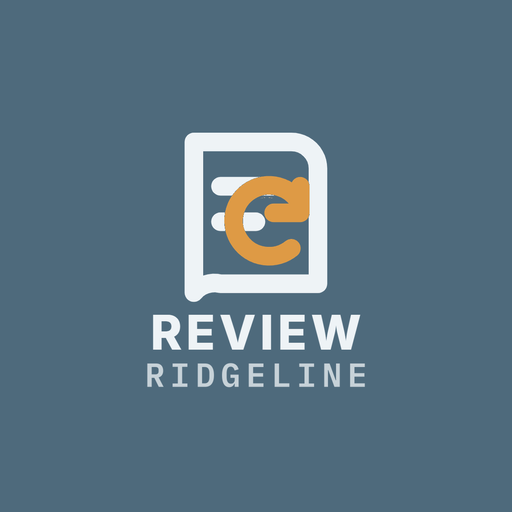
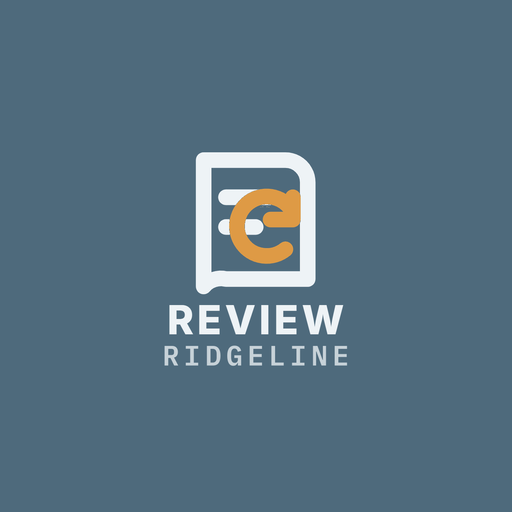
全家族版面修正：窄手機不左右滑／按鈕不擠扁、前面長說明改收合（紅線留外面）、桌面圖示縮進手機安全區
老闆手機回報（2026-10-19）：桌面圖示字被切、窄手機可左右滑、搜尋鈕擠扁、前面說明太長。版面以 360／375／390／412 四種寬度檢查（04_管理工具\版面檢查）；收合只換排版不刪字；maskable 圖示內容縮到半徑 ≤0.28。408 另加介紹文字重點標示（數字粗體、⚠ 句上警示色）。各支原有測試全過，細節見各自更新記錄。

Changed region(s): [[0.2812, 0.25, 0.7188, 0.7812]]

diff --git a/sw.js b/sw.js
@@ -1,4 +1,4 @@
-const CACHE = 'cap704-v12';
+const CACHE = 'cap704-v13';
 // 2026-10-19 闖關考場：圓體子集與 3D 圖一起預先快取（清單要與 _tools/build_fluent3d.py 的 ICONS 一致）
 const F3D = ['gradcap', 'books', 'bullseye', 'pencil', 'crossmark', 'calendar', 'openbook', 'scroll', 'speech', 'ruler', 'worldmap', 'testtube', 'memo', 'party', 'mailbox'].map(k => `./vendor/fluent-3d/${k}.png`);
 const CORE = ['./', './index.html', './manifest.json', './ridgeline-ui.css', './rl-mark-denali-white.png', './icon-192.png', './vendor/round-ui/cap-round.woff2', ...F3D];

diff --git a/更新記錄.md b/更新記錄.md
@@ -1,5 +1,11 @@
 # 704 會考複習 更新記錄
 
+## 2026-10-19 · 手機桌面圖示的字被切：maskable 縮進 Android 安全區（sw cap704-v12→cap704-v13；未 commit／未部署）
+
+- 問題：老闆 Android 手機上 408 的安裝圖示 DOLOMITES 被遮罩切成「OLOMITE」。舊規則只保證墨跡在 W3C 安全圈（中心 80% 直徑、半徑 0.40）；但不少安裝路徑會把 maskable 直接當 Android 108dp 前景層，只露中間 72dp，啟動器再套圓形／圓角／水滴，實際放心可見只到半徑約 0.31（Android 安全區 66/108）。
+- 修法：只重產 manifest 指到的 maskable 圖（檔名不變、manifest 路徑不變），整張構圖以中心等比縮小到墨跡最大半徑 ≤ 0.28，背景色延伸滿版；其他尺寸與 any 圖不動。品牌正式檔、v5 母版與產生器（`mask_text.SAFE_R`）同步修正。
+- 本支：`icon-maskable-512.png` 半徑 0.332→0.279（以圖寬為 1；> 0.333 會被切）。
+
 ## 2026-10-19 · 版面美化「闖關考場」：粉圓圓體＋3D 插圖＋首屏主視覺（sw cap704-v11→v12，**未部署**）
 
 - **為什麼**：UI/UX 評比（`04_管理工具\_docs\App_UIUX評比_2026-10-13\ui_feedback\704.json`）輸的理由：主鈕藏在說明卡裡、下方立即接長文；板岩藍＋橘「整齊但偏素、無視覺焦點」。七系列（學習家族）老闆選定方向 A「勇者冒險」家族語言，704 用自己的主題：**深藍＋陽光黃**。
